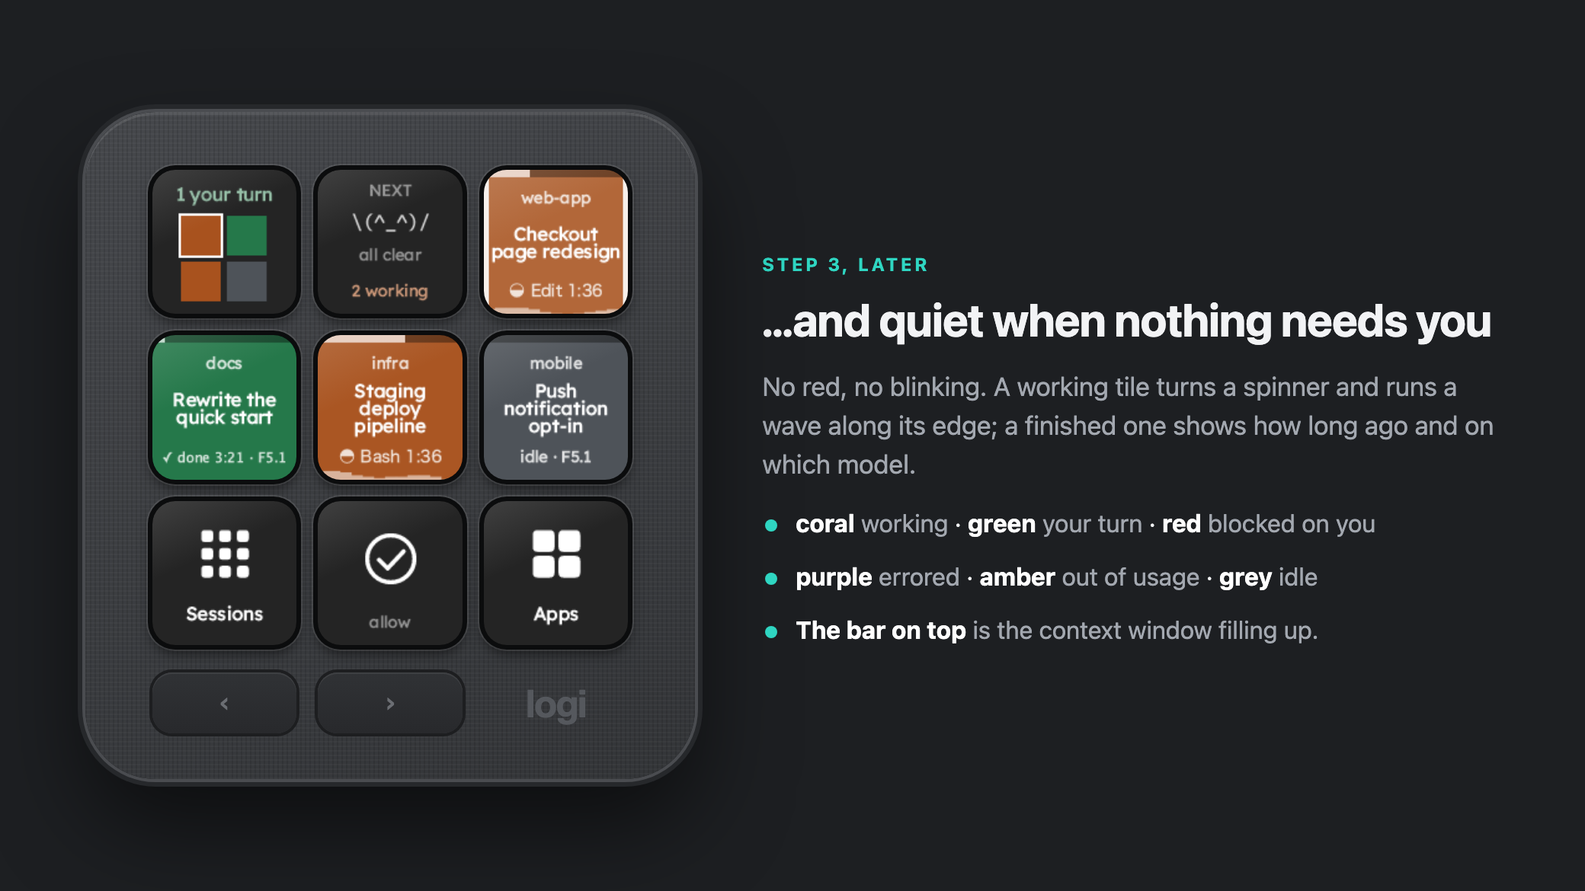
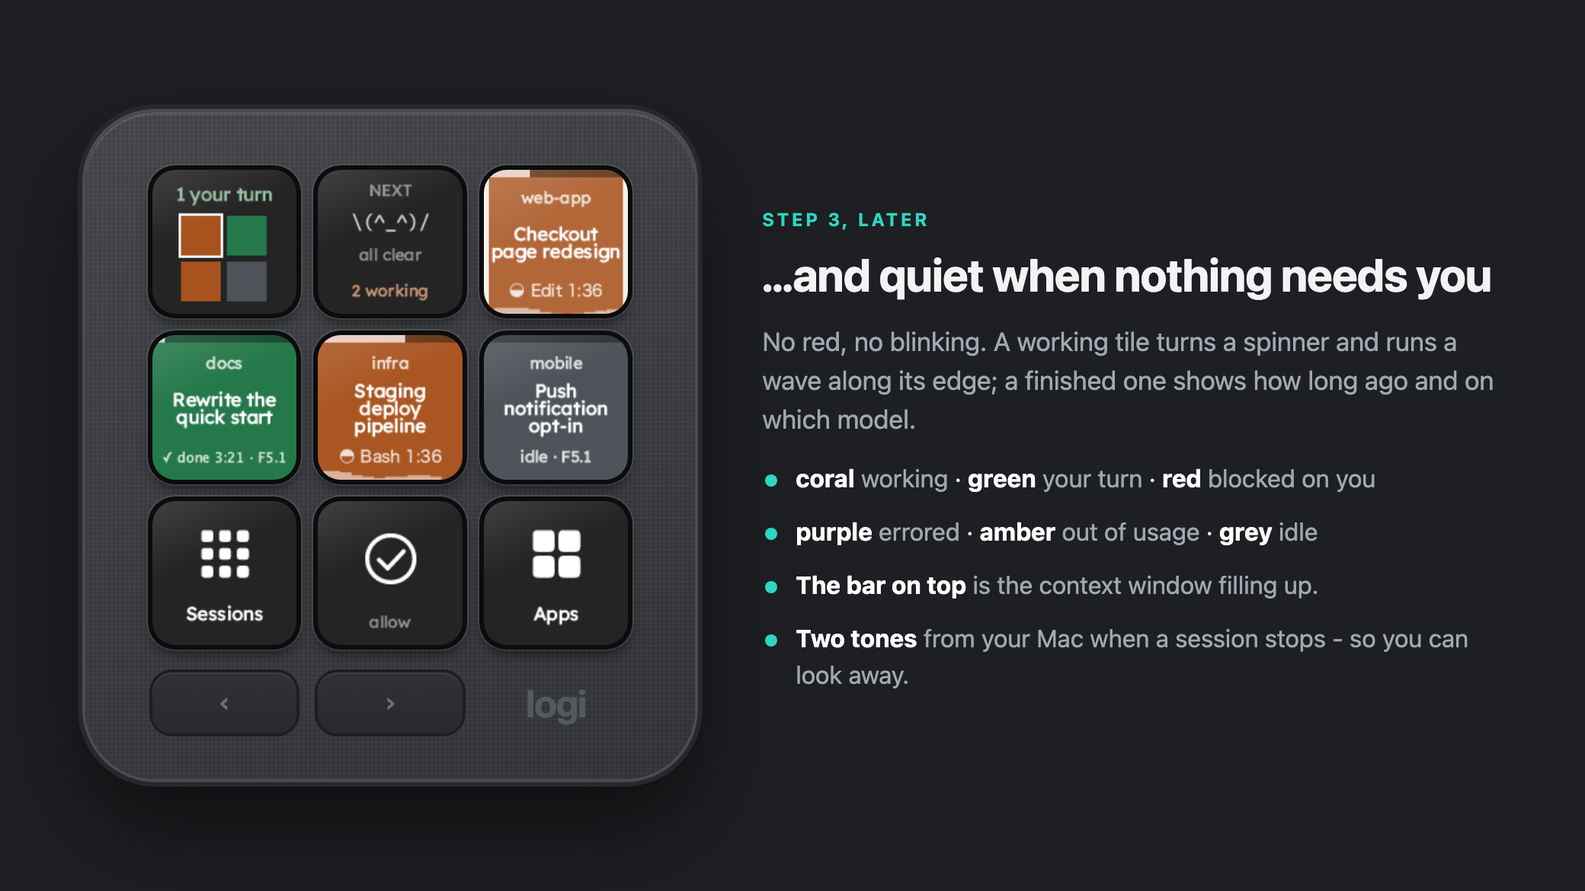
Two tones, and a finished turn sounds them too; README back in line with the code
A turn finishing now sounds the tone, as a prompt, a dead turn and a lost
process already did: a session that has simply stopped working is the
stop most worth hearing about, and leaving it silent made the tone look
broken. Every turn sounds, however short; "minTurnSeconds" under "beep"
keeps quick replies quiet, and "done": false leaves finishing out.

The tone is two tones by default rather than four.

README: the tone and the haptics get a section of their own, "When a
session stops", linked from the first paragraph. Brought back in line
with the code along the way - the folders are Sessions and Apps, a tile
settles to "done 3s", the Model key reads "model · 1M", the usage keys
go by their real names, a working tile breathes, "icon" is a setting of
a command key, and Allow is not aimed by a session slot. The tour's calm
picture mentions the tones. config.example.json no longer says seven
command keys with two on the first page, and install.sh's closing list
uses the folders' names.

Changed region(s): [[0.4688, 0.2154, 0.9375, 0.5538], [0.4688, 0.5846, 0.9375, 0.7692]]

diff --git a/docs/steps/steps.html b/docs/steps/steps.html
@@ -153,6 +153,7 @@
         <li><b>coral</b> <span>working</span> · <b>green</b> <span>your turn</span> · <b>red</b> <span>blocked on you</span></li>
         <li><b>purple</b> <span>errored</span> · <b>amber</b> <span>out of usage</span> · <b>grey</b> <span>idle</span></li>
         <li><b>The bar on top</b> <span>is the context window filling up.</span></li>
+        <li><b>Two tones</b> <span>from your Mac when a session stops - so you can look away.</span></li>
       </ul>
     </div>
   </section>

diff --git a/plugin/src/Sessions/DeckConfig.cs b/plugin/src/Sessions/DeckConfig.cs
@@ -91,15 +91,18 @@ namespace Loupedeck.ClaudeDeckPlugin
         // A turn shorter than this finishing is not worth a buzz: you are still looking at it.
         public static Int32 HapticMinTurnSeconds => _current.HapticMinTurnSeconds;
 
-        // Which stops sound the tone: blocked on you, the turn died, the claude process went away
-        // mid-turn - and, only if asked for, a turn simply finishing.
+        // Which stops sound the tone: blocked on you, the turn finished, the turn died, the claude
+        // process went away mid-turn.
         public static Boolean BeepAttention => _current.BeepAttention;
+
+        public static Boolean BeepDone => _current.BeepDone;
 
         public static Boolean BeepError => _current.BeepError;
 
         public static Boolean BeepGone => _current.BeepGone;
 
-        public static Boolean BeepDone => _current.BeepDone;
+        // A turn shorter than this finishing is silent. 0, the default: every turn is heard.
+        public static Int32 BeepMinTurnSeconds => _current.BeepMinTurnSeconds;
 
         // How many tones a stop gets, and how far apart they start.
         public static Int32 BeepTimes => _current.BeepTimes;
@@ -243,10 +246,11 @@ namespace Loupedeck.ClaudeDeckPlugin
             public Boolean HapticError { get; private set; } = true;
             public Int32 HapticMinTurnSeconds { get; private set; } = 20;
             public Boolean BeepAttention { get; private set; } = true;
+            public Boolean BeepDone { get; private set; } = true;
             public Boolean BeepError { get; private set; } = true;
             public Boolean BeepGone { get; private set; } = true;
-            public Boolean BeepDone { get; private set; }
-            public Int32 BeepTimes { get; private set; } = 4;
+            public Int32 BeepMinTurnSeconds { get; private set; }
+            public Int32 BeepTimes { get; private set; } = 2;
             public Int32 BeepEveryMs { get; private set; } = 700;
             public String BeepSound { get; private set; } = "/System/Library/Sounds/Glass.aiff";
             public Double BeepVolume { get; private set; } = 1;
@@ -336,9 +340,13 @@ namespace Loupedeck.ClaudeDeckPlugin
                 if (root.TryGetProperty("beep", out var beep) && beep.ValueKind == JsonValueKind.Object)
                 {
                     s.BeepAttention = Bool(beep, "attention", true);
+                    s.BeepDone = Bool(beep, "done", true);
                     s.BeepError = Bool(beep, "error", true);
                     s.BeepGone = Bool(beep, "gone", true);
-                    s.BeepDone = Bool(beep, "done", false);
+                    if (Number(beep, "minTurnSeconds") is { } shortest && shortest >= 0)
+                    {
+                        s.BeepMinTurnSeconds = (Int32)Math.Min(shortest, 86400);
+                    }
 
                     // Held to what a tap on the shoulder is: a handful of tones, close together.
                     if (Number(beep, "times") is { } times && times >= 0)

diff --git a/plugin/src/Sessions/Beep.cs b/plugin/src/Sessions/Beep.cs
@@ -6,13 +6,13 @@ namespace Loupedeck.ClaudeDeckPlugin
     using System.Threading;
     using System.Threading.Tasks;
 
-    // The tone your Mac sounds when something stops a session: it is blocked on you, its turn died,
+    // The tone your Mac sounds when a session stops: it is blocked on you, its turn finished or died,
     // or its claude process went away mid-turn. A set number of tones and then quiet - a tap on the
     // shoulder, not an alarm that rings until somebody comes.
     //
     // There is only ever one run of tones. A session stopping while another's are still sounding
     // starts the count again instead of ringing over it, and a session that gets going again takes
-    // its tones with it: answer the prompt after the second tone and there is no third.
+    // its tones with it: answer the prompt after the first tone and there is no second.
     public static class Beep
     {
         private const String Player = "/usr/bin/afplay";
@@ -34,8 +34,8 @@ namespace Loupedeck.ClaudeDeckPlugin
                 "attention" => DeckConfig.BeepAttention,
                 "error" => DeckConfig.BeepError,
 
-                // The haptic's rule: a short turn finishing is one you are still watching.
-                "done" => DeckConfig.BeepDone && change.FinishedAfter(DeckConfig.HapticMinTurnSeconds),
+                // Every turn that ends, unless a shortest one worth hearing about has been set.
+                "done" => DeckConfig.BeepDone && change.FinishedAfter(DeckConfig.BeepMinTurnSeconds),
                 _ => false,
             };
 
@@ -94,7 +94,7 @@ namespace Loupedeck.ClaudeDeckPlugin
         }
 
         // Each tone is started and left to play: afplay takes a second or two to come back even from
-        // a short sound, and waiting for it would turn four brisk tones into a slow march. The beat
+        // a short sound, and waiting for it would turn brisk tones into a slow march. The beat
         // is a timer's, not a pause after each start, so that starting the player - which takes a
         // moment of its own - does not stretch the interval.
         private static async Task Sound()

diff --git a/README.md b/README.md
@@ -2,7 +2,7 @@
 
 Every running [Claude Code](https://claude.com/claude-code) session as a live tile on a **Logitech MX
 Creative Keypad** — jump to it, answer its permission prompts, interrupt it — and, when something
-stops one, four tones from your Mac and a buzz on an **MX Master 4**.
+stops one, [two tones from your Mac](#when-a-session-stops) and a buzz on an **MX Master 4**.
 
 <p align="center"><img src="docs/steps/03-main.png" width="820" alt="An MX Creative Keypad showing an overview of five Claude sessions, the one that needs you next, four live session tiles, and an Allow key with the pending command written on it."></p>
 
@@ -45,8 +45,8 @@ so the page you look at while doing something else is the cockpit, not a menu.
 │    slot 2    │    slot 3    │    slot 4    │
 │  live tile   │  live tile   │  live tile   │
 ├──────────────┼──────────────┼──────────────┤
-│    Claude    │    Allow     │ App Switcher │
-│   Sessions   │              │              │
+│   Sessions   │    Allow     │     Apps     │
+│   (folder)   │              │   (folder)   │
 └──────────────┴──────────────┴──────────────┘
 ```
 
@@ -54,13 +54,13 @@ so the page you look at while doing something else is the cockpit, not a menu.
 |---|---|---|
 | **Overview** | every session as a square in its state colour, under a headline for the most urgent thing: `1 needs you` → `2 errored` → `1 at limit` → `2 your turn` → `3 working`. The white-edged square is the session the keys act on | walks the sessions that want you, most urgent first |
 | **Next** | the *one* session that most deserves you, as a full live tile - the command it wants to run, the question it asked, `limit · 4:40am` - headed `NEXT · 1 of 3`. When nothing wants you: `all clear · 2 working` | goes to it. Dealing with it is what moves the queue on |
-| **Session slot 1-8** | your sessions *on the main page*: slot 3 is the third session, in the same stable order as the list (Warp window, tab, pane), so a session keeps its key for as long as it lives | jumps to its pane - which also makes it the target of **Model**, **Effort**, **Permission mode** and **Allow**. **Hold** to interrupt it |
+| **Session slot 1-8** | your sessions *on the main page*: slot 3 is the third session, in the same stable order as the list (Warp window, tab, pane), so a session keeps its key for as long as it lives | jumps to its pane - which also makes it the target of **Model**, **Effort** and **Permission mode**. **Hold** to interrupt it |
 
 The queue behind *Overview* and *Next*: blocked on you (longest first), then errored, then out of
 usage, then finished (longest ago first). Working and idle sessions want nothing, so they are not in it.
 
-Slots and the folder are the same sessions at two depths: a slot is one press to the pane; **Claude
-Sessions** is where a session's own page lives (info, model, effort, mode, answers).
+Slots and the folder are the same sessions at two depths: a slot is one press to the pane;
+**Sessions** is where a session's own page lives (info, model, effort, mode, answers).
 
 ## Plan usage on the keypad
 
@@ -146,7 +146,8 @@ the name - `web-app needs you` - when another session is blocked on you (`2 need
 turns **green** with `2 your turn` when others have finished, and otherwise just counts them. Along
 its bottom edge is one dot per other session in its state colour, so the whole deck is readable
 without leaving the page. **Press** it for the list; **hold** it to skip the list and land directly on
-whichever session needs you most (blocked longest, else errored, else finished longest ago).
+whichever session needs you most (blocked longest, else errored, else out of usage, else finished
+longest ago).
 
 **Out of usage** - when a session hits your usage limit its tile turns **amber** and reads
 `limit · 4:40am` (when it lifts), and its page gains a **continue at low priority** key, which sends
@@ -202,13 +203,13 @@ limited; any later reply, or the reset time passing, means not.
 ▂▃▅▇▅▃▂▁▂▃▅▆▅▃  ← a wave of block characters flowing past while it works
 ```
 
-**The tiles move.** Everything animated is drawn from characters, four frames a second:
+**The tiles move.** The marks are drawn from characters, four frames a second:
 
 | When | What you see |
 |---|---|
-| working | a half-filled circle turning beside the status - `◐ ◓ ◑ ◒` - and two sine waves of `▁▂▃▄▅▆▇█` sliding past each other along the bottom edge |
+| working | a half-filled circle turning beside the status - `◐ ◓ ◑ ◒` - two sine waves of `▁▂▃▄▅▆▇█` sliding past each other along the bottom edge, and the tile's colour swelling and settling like a breath |
 | blocked on you | the tile blinks and arrows close in on the question: `>  allow Bash?  <` → `> allow Bash? <` → `>allow Bash?<` |
-| a turn just finished | three seconds of a twinkling diamond - `◇ ◆` - then it settles to `✓ done 0:03` |
+| a turn just finished | three seconds of a twinkling diamond - `◇ ◆` - then it settles to `✓ done 3s` |
 | tapping model / effort / mode | a bar runs down - `[======]` → `[===---]` → `[=-----]` - showing how long until your taps are taken as final |
 | nothing to show | `\(^_^)/ all clear`, `(-_-) zzZ no sessions`, `[   ]` for an empty slot |
 
@@ -227,6 +228,35 @@ braille beside text. Animation only runs for tiles that are actually moving. `"s
 | amber | **limit** — out of usage until the time shown | the transcript's `rate_limit` reply |
 | grey | **idle** - with a short model tag, as on finished tiles: `idle · F5.1` | `SessionStart` |
 
+## When a session stops
+
+You do not have to be looking at the keypad to know.
+
+**A tone** — your Mac sounds *Glass* twice, 0.7 s apart, and then stays quiet: a tap on the
+shoulder, not an alarm that rings until somebody comes. It needs no mouse and no setup. Four things
+count as a stop:
+
+| Stop | What happened | Setting |
+|---|---|---|
+| **blocked on you** | a permission prompt, a question, a plan waiting for approval | `attention` |
+| **the turn finished** | Claude is done, and it is your move | `done` |
+| **the turn died** | an API error, or your usage limit | `error` |
+| **the process went away** | `claude` crashed or was killed mid-turn. Its tile simply vanishes, so the tone is the only sign | `gone` |
+
+- Every turn that finishes sounds, however short. `"minTurnSeconds": 20` keeps quick replies quiet -
+  a turn shorter than that finishes in silence - and `"done": false` leaves finishing out altogether.
+- Quitting a session yourself is not a stop: Claude Code says goodbye first.
+- There is one run of tones at a time. A second session stopping while the first is still sounding
+  starts the count again instead of ringing over it.
+- The tones stop early if the session gets going again - answer the prompt after the first tone
+  and there is no second.
+- Which stops, how many tones, how far apart, which sound and how loud are all under `beep` in the
+  [config](#configuration): `"times": 4` for four tones, `"sound": "Ping"` for another of the Mac's
+  alert sounds, `"times": 0` for none at all.
+
+**A buzz (MX Master 4)** — three haptic events, remappable in Options+: *Claude needs you* (`knock`),
+*Claude finished* (`completed`, only for turns longer than 20 s), *Claude errored* (`angry_alert`).
+
 ## App Switcher
 
 A Cmd-Tab you can see. Put **Apps** on one key; press it and every running app is a key with
@@ -244,9 +274,9 @@ quits, activates or hides - nothing polls - and exits by itself when the plugin 
 
 ## Model switch
 
-**Model** is a live key: it shows which model the target session is set to - `Fable 5.1`, with
-`1M context` underneath when it is on the big window - in that model's colour, and the project it
-belongs to. Resting tiles carry the same thing as a short tag: `done 5:12 · F5.1`.
+**Model** is a live key: it shows which model the target session is set to - `Fable 5.1`, in that
+model's colour, under the name of the project it belongs to, with `model · 1M` beneath when it is on
+the big window. Resting tiles carry the same thing as a short tag: `done 5:12 · F5.1`.
 
 **Tap to change it.** Each tap steps to the next model in your list, ringed in white; the switch is
 sent once, about a second and a half after your last tap. So Fable → Sonnet, passing Opus, is *one*
@@ -275,7 +305,7 @@ without opening it.
 | Key | Shows | Press |
 |---|---|---|
 | **Overview**, **Next**, **Session slot 1-8** | see [The main page](#the-main-page) | |
-| **Usage: session / weekly / pace** | see [Plan usage on the keypad](#plan-usage-on-the-keypad) | nothing - they are gauges |
+| **Usage: session (5h)**, **Usage: weekly**, **Usage: pace / model** | see [Plan usage on the keypad](#plan-usage-on-the-keypad) | nothing - they are gauges |
 | **Needs me** | one number: the size of the most urgent group that has anyone in it - blocked on you, else errored, else at the usage limit, else finished - in that group's colour and under its name. With nobody waiting: how many are working | walks exactly the sessions it is counting, longest-waiting first |
 | **Working** | how many are still running | walks them |
 | **Allow** | the oldest open permission prompt *spelled out*: tool, command, project | **allows it**. **Hold** to go and look instead |
@@ -287,28 +317,8 @@ without opening it.
 | **Apps**, **Open App** | see [App Switcher](#app-switcher) | |
 | **Models** | a folder: every configured model, the one in use marked | sets it - see [Model switch](#model-switch) |
 
-**Haptics (MX Master 4)** — three events, remappable in Options+: *Claude needs you* (`knock`),
-*Claude finished* (`completed`, only for turns longer than 20 s), *Claude errored* (`angry_alert`).
-
-**A tone when something stops a session** — your Mac sounds *Glass* four times, 0.7 s apart, and
-then stays quiet: a tap on the shoulder, not an alarm that rings until somebody comes. It needs no
-mouse and no setup. Three things count as a stop:
-
-| Stop | What happened | Setting |
-|---|---|---|
-| **blocked on you** | a permission prompt, a question, a plan waiting for approval | `attention` |
-| **the turn died** | an API error, or your usage limit | `error` |
-| **the process went away** | `claude` crashed or was killed mid-turn. Its tile simply vanishes, so the tone is the only sign | `gone` |
-
-- A turn finishing by itself is not a stop, and is silent. `"done": true` makes it sound too, for
-  turns longer than `minTurnSeconds`.
-- Quitting a session yourself is not a stop either: Claude Code says goodbye first.
-- There is one run of tones at a time. A second session stopping while the first is still sounding
-  starts the count again instead of ringing over it.
-- The tones stop early if the session gets going again - answer the prompt after the second tone
-  and there is no third.
-- Which stops, how many tones, how far apart, which sound and how loud are all under `beep` in the
-  [config](#configuration). `"times": 0` turns it off.
+A stopped session also sounds a tone and buzzes an MX Master 4 - see
+[When a session stops](#when-a-session-stops).
 
 ### Safety of the typing keys
 
@@ -380,6 +390,7 @@ Open **Logi Options+ → MX Creative Keypad**. In the actions panel find the plu
 | *optional:* **Needs me**, **Working** | Claude | the plain counts, if you prefer numbers |
 | *optional:* **Model**, **Effort**, **Permission mode** | Claude | home page - the same controls as on a session's page, for the target session |
 | *optional:* **Models** | Claude | a folder: pick a model from a list instead of tapping through |
+| *optional:* **Usage: session (5h)**, **Usage: weekly**, **Usage: pace / model** | Usage | home page - the plan gauges, without opening **Sessions** |
 | *optional:* **Open App** | Apps | a direct "go to Warp" key: type `Warp` in its form |
 | *optional:* anything under **Commands**, or **Send to Claude** | Commands / Claude | home page |
 
@@ -406,12 +417,12 @@ waveform there.
    above the three usage keys.
 3. Send a prompt. The tile turns **coral**, a half-circle turns beside the tool it is using, and a
    wave flows along its bottom edge.
-4. When Claude finishes it turns **green**; on your home page *Overview* reads `1 your turn` and
-   *Next* shows that session.
+4. When Claude finishes it turns **green** and your Mac sounds two tones; on your home page
+   *Overview* reads `1 your turn` and *Next* shows that session.
 5. Click into another app, press **Apps**, press **Warp** - Warp comes forward and the folder
    closes.
 6. Ask Claude to run something it needs permission for (`run ls in /tmp`). The tile blinks **red** and
-   shows the command, and your Mac sounds four tones. Press the tile to open that session's page:
+   shows the command, and the two tones sound again. Press the tile to open that session's page:
    **yes / always / no** are the keys right after it. (*Allow* on the home page shows the same prompt
    and approves it in one press.)
 7. On that page, tap **effort** a couple of times and stop: about a second and a half later
@@ -470,7 +481,7 @@ actions work on every profile.
 | Folder shows **No sessions** while Claude is running | That session started before the hooks were installed - start a new one. Also confirm `jq` exists: the hook exits silently without it |
 | Tiles work, but `esc` / `yes` / `/compact` do nothing | Accessibility permission (Step 4). After an Options+ update macOS sometimes drops it: toggle the entry off and on |
 | A key types nothing and the log says `... is in front, not ...` | Working as designed: typing keys refuse unless the expected terminal is frontmost. Press the session tile first |
-| App Switcher shows **No apps** | The helper is not running: `pgrep -fl deck-apps`. Rebuild with `./install.sh`; the log says why if it cannot start |
+| **Apps** shows **No apps** | The helper is not running: `pgrep -fl deck-apps`. Rebuild with `./install.sh`; the log says why if it cannot start |
 | All Warp sessions land on one page | Warp changed its internal database layout. Status and focus still work; only per-tab paging is lost. Please open an issue |
 | **Model** shows `?` | No reply has been written in that session yet and no `/model` switch was made, so there is nothing to read. It fills in after the first turn |
 | A model switch types `/model x` but Claude Code rejects it | That alias is not one your Claude Code version knows. Put the full model id in `alias` in `config.json` |
@@ -478,7 +489,7 @@ actions work on every profile.
 | Usage keys are grey with `35m old` | No session has talked to the API for that long; the numbers refresh on the next reply |
 | Usage differs from the usage page | The keys show what Claude Code derives from the rate-limit headers of its latest API response; the page is computed server-side and can disagree. Compare with `/usage` inside Claude Code |
 | No buzz on the MX Master 4 | Step 5, and check `"haptics"` in `~/.claude/deck/config.json`. *Claude finished* only fires for turns longer than `minTurnSeconds` (20) |
-| No tone when a session stops | Check `"beep"` in `~/.claude/deck/config.json` - `times` above 0, and the stop you expect not set to `false` - and that the Mac is not muted. The log has a line for every run of tones (`web-app stopped (attention): 4 tone(s)`) and names a `sound` it could not find. A turn finishing is silent unless `"done": true` |
+| No tone when a session stops | Check `"beep"` in `~/.claude/deck/config.json` - `times` above 0, and the stop you expect not set to `false` - and that the Mac is not muted. The log has a line for every run of tones (`web-app stopped (done): 2 tone(s)`) and names a `sound` it could not find. With `minTurnSeconds` set, a turn shorter than that finishes in silence |
 
 ## Configuration
 
@@ -493,12 +504,12 @@ annotated version; the installer seeds your copy from it.
 | `showContext` | the context-window gauge along the top of each tile |
 | `contextWindow`, `contextWindows` | the window size the gauge is measured against, when Claude Code has not said (it usually has - see [Plan usage](#plan-usage-on-the-keypad)) |
 | `haptics` | `attention` / `done` / `error` on or off, and `minTurnSeconds`: a turn shorter than this finishing is not announced |
-| `beep` | the tone when something stops a session. `attention` / `error` / `gone` / `done`: which stops sound it · `times`: how many tones (4; 0 is off) · `every`: seconds between them (0.7) · `sound`: a macOS alert sound by name (`Glass`, `Ping`, `Hero`, ...) or the path of an audio file · `volume`: 1 is as recorded |
+| `beep` | the tone when a session stops. `attention` / `done` / `error` / `gone`: which stops sound it · `minTurnSeconds`: a turn shorter than this finishing is silent (0: every turn sounds) · `times`: how many tones (2; 0 is off) · `every`: seconds between them (0.7) · `sound`: a macOS alert sound by name (`Glass`, `Ping`, `Hero`, ...) or the path of an audio file · `volume`: 1 is as recorded |
 | `sessions` | `group`: `"flat"` or `"tab"` (one page per Warp tab) · `focusOnOpen`: opening a session also brings its pane forward · `usageRow`: the three usage keys under the list · `pageUsageRow`: and under a session's page |
 | `usage` | `perModel`: ask Claude Code (`claude -p /usage`) for the per-model weekly window while a usage key is showing · `claudePath`: where `claude` is, if not in `~/.local/bin`, `/opt/homebrew/bin` or `/usr/local/bin` |
 | `models` | what **Model** steps through and **Models** lists: `alias` (typed after `/model`), `label`, `match`, `color` |
 | `apps` | the App Switcher: `pinned` and `hidden` bundle ids, `order` (`recent` / `launch` / `name`), `closeOnSwitch` |
-| `keys` | the command keys on every session's page, also published under **Commands** for your home page: `label`, `text`, `submit`, `key` (`"escape"`), `color`, and an optional `id` |
+| `keys` | the command keys on every session's page - the first three are its bottom row - also published under **Commands** for your home page: `label`, `text`, `submit`, `key` (`"escape"`), `color`, `icon`, and an optional `id` |
 
 A key you have placed from **Commands** is remembered by its `id` - or, without one, by what it
 *does* (its text, whether it submits, the special key it sends). So relabelling or reordering keys
